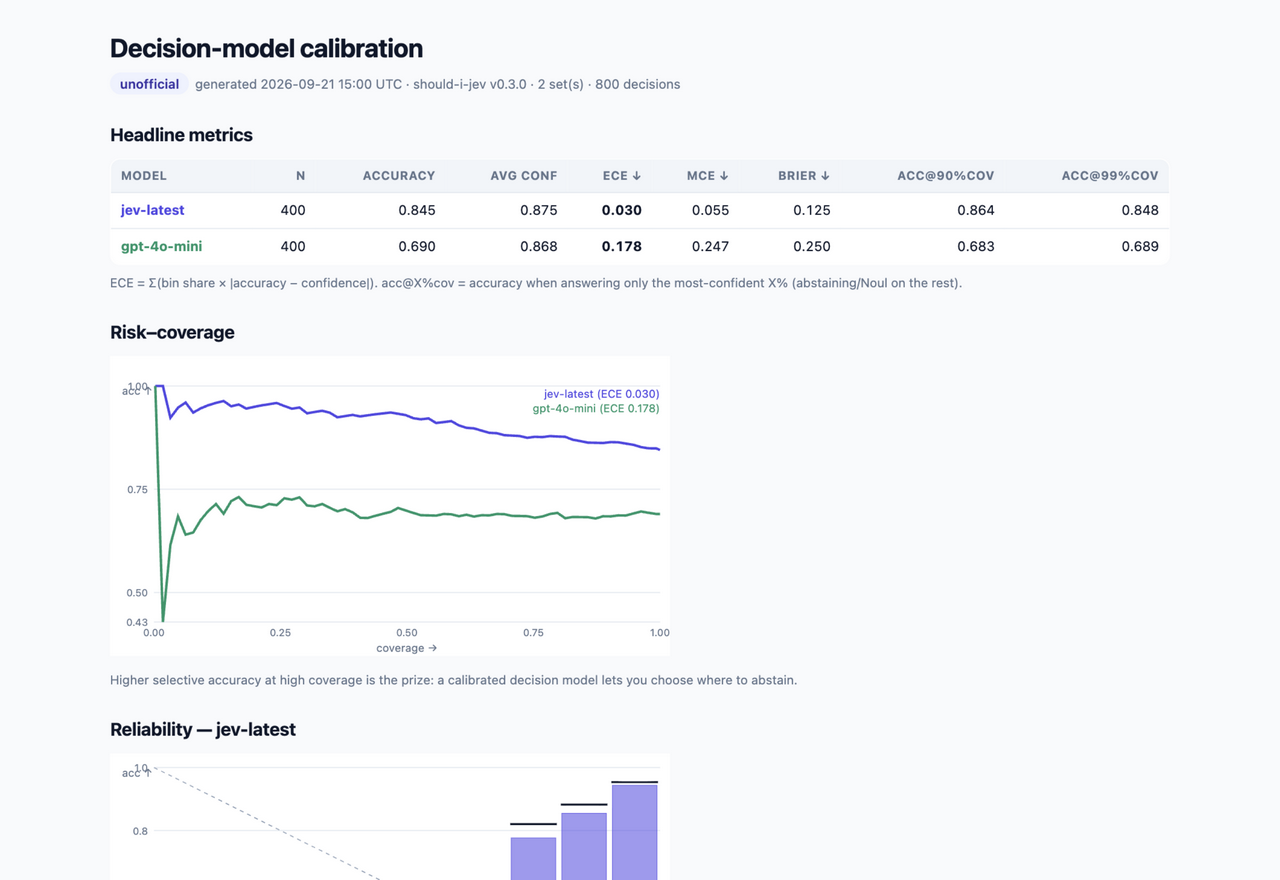
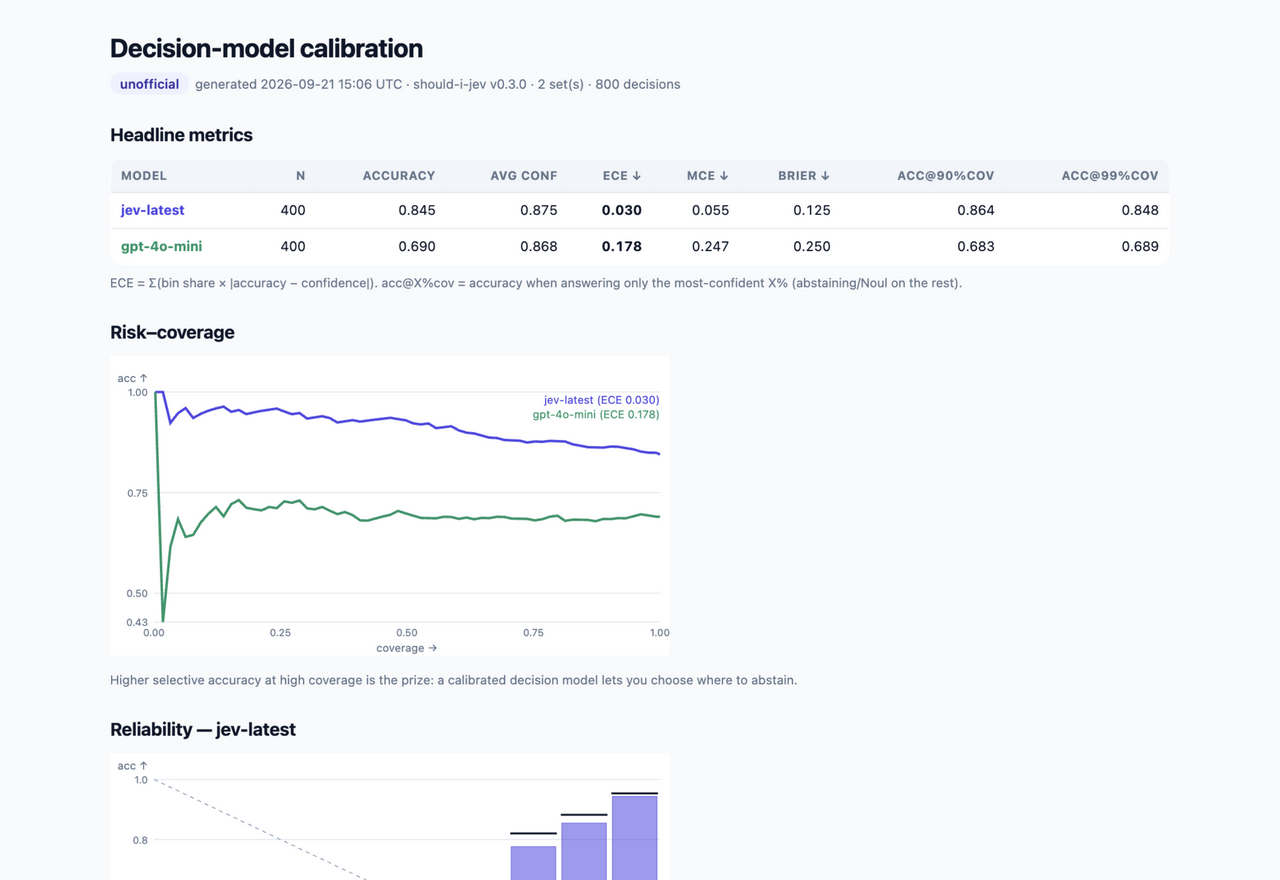
fix(calibration charts): axis corner label no longer overlaps the top y tick

diff --git a/should_i_jev/calib_report.py b/should_i_jev/calib_report.py
@@ -125,7 +125,7 @@ def render_calib_markdown(summaries: List[Dict], skipped: int = 0) -> str:
 
 def reliability_svg(summary: Dict, color: str = "#4f46e5", width: int = 560, height: int = 300) -> str:
     bins: List[ReliabilityBin] = summary["bins"]
-    pad_l, pad_b, pad_t, pad_r = 44, 34, 14, 10
+    pad_l, pad_b, pad_t, pad_r = 44, 34, 26, 10
     plot_w = width - pad_l - pad_r
     plot_h = height - pad_t - pad_b
     n = len(bins)
@@ -176,14 +176,15 @@ def reliability_svg(summary: Dict, color: str = "#4f46e5", width: int = 560, hei
         f'fill="#64748b">confidence →</text>'
     )
     parts.append(
-        f'<text x="12" y="{pad_t + 9}" font-size="11" fill="#64748b">acc ↑</text>'
+        f'<text x="{pad_l - 6}" y="{pad_t - 10}" text-anchor="end" font-size="11" '
+        f'fill="#64748b">acc ↑</text>'
     )
     parts.append("</svg>")
     return "".join(parts)
 
 
 def risk_coverage_svg(summaries: List[Dict], width: int = 560, height: int = 300) -> str:
-    pad_l, pad_b, pad_t, pad_r = 44, 34, 30, 10
+    pad_l, pad_b, pad_t, pad_r = 44, 34, 36, 10
     plot_w = width - pad_l - pad_r
     plot_h = height - pad_t - pad_b
 
@@ -221,7 +222,10 @@ def risk_coverage_svg(summaries: List[Dict], width: int = 560, height: int = 300
         f'<text x="{pad_l + plot_w / 2}" y="{height - 4}" text-anchor="middle" font-size="11" '
         f'fill="#64748b">coverage →</text>'
     )
-    parts.append(f'<text x="12" y="{pad_t + 9}" font-size="11" fill="#64748b">acc ↑</text>')
+    parts.append(
+        f'<text x="{pad_l - 6}" y="{pad_t - 10}" text-anchor="end" font-size="11" '
+        f'fill="#64748b">acc ↑</text>'
+    )
 
     for idx, s in enumerate(summaries):
         color = _COLORS[idx % len(_COLORS)]
